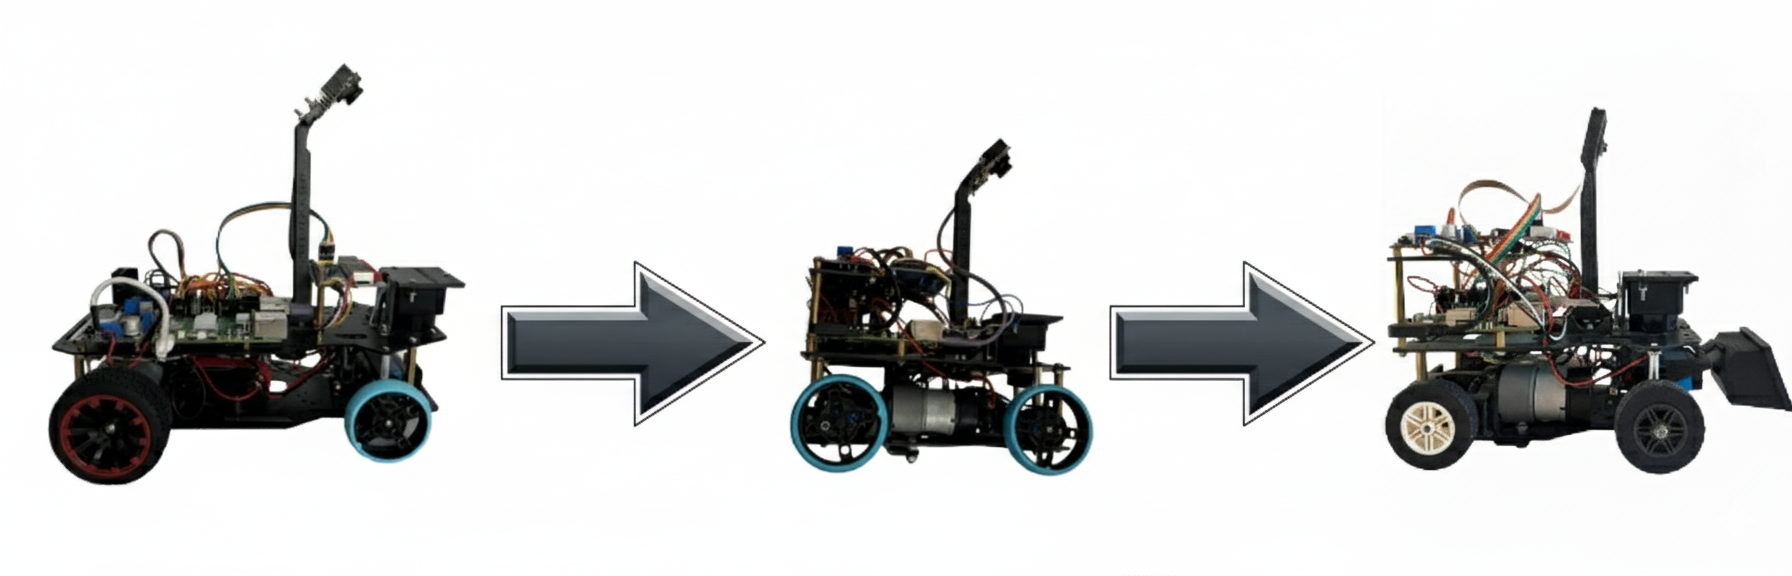
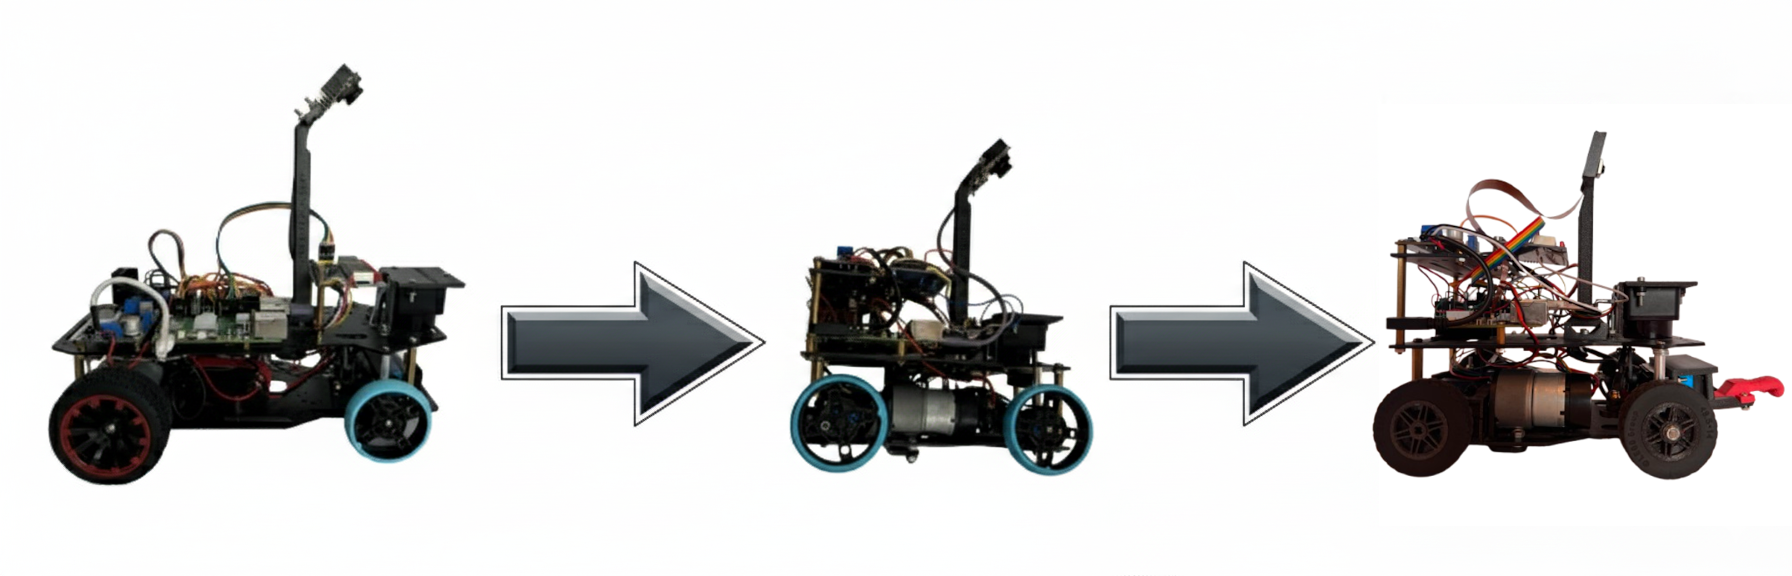
Updating our journey

Changed region(s): [[0.75, 0.1875, 1.0, 0.8438]]

diff --git a/Our Journey.md b/Our Journey.md
@@ -1,73 +1,120 @@
-# Our Journey
+# Our journey
 
-The documentation will begin with the journey we went on this year, our struggles, our biggest achievements and even some funny things we had encountered.
+In this segment, we'll focus on our development process throughout the years. The challenges we faced, the engineering decisions we made, and how the final design of our robot came to be.
 
-## Our past
+## Our history in WRO
 
-WRO has been quite a significant part of our lives for a few years now. While the competition had come with its fair share of hardships it also gave us some of the most important opportunities in our lives. Last year was our first time experiencing tppppphe Future Engineers category and it was a great challenge. We learned a lot and even **managed to secure the title of World Champions,** something we couldn't even dream of achieving before. After such an incredible first experience, we already realized how important this project was for us and eagerly started preparing for this season of WRO.
+Before we begin talking about anything technical we think it is important to mention the past, because it might make it more clear why we made some decisions previously, and where our engineering experience stems from. It might be a bit long, but its hard to summarize so many years in just a few sentences. 
 
-![1st place](1st.png)
+### Before FE
+ 
+Before Future Engineers, all our team members were competing in the Robomission category, although not necessarily in the same team nor age group. There, we picked up a lot of useful skills and knowledge, like the **basics of motor and gyro usage, the idea behind the PID** controller. We learned as much as we could within the category, but after a few years we wanted to take on a mature challenge, so we decided to give Future Engineers a try in 2024.  
+
+### FE 2024
+It was our first time doing anything this advanced so we decided to take a slow and steady approach. We did not really care about speed at all, we just wanted to make something that worked and was reliable. Our experience was mostly with software, **so we were hesitant to when it came to mechanical solutions** (like making a differential gear), and we also took an approach that was more similar to a Robomission robot (building our run from highly modular, but slower parts, rather than a fully dynamic solution). **We were new and inexperienced** both in mechanics and electronics, but somehow everything went amazingly and we ended up winning the International Final.  
+
+### FE 2025
+The next we changed our philosophy and decided to focus on speed instead. There were minimal changes to the rules, so we predicted that time would play a more important role in the top positions that year. We already had a perfectly working robot, and while there would have been advantages in starting over, **we decided to rather just improve upon the design we already had.** We made upgrades in all areas, software, mechanics and electronics. We got a new camera, differential, we improved our strategy. With everything, **we managed to cut our runtime in half,** make everything smoother and more reliable. All in all 2025 was a lot more intense, with a lot more teams earning the maximum points on the challenge runs, but somehow we still managed to take third place, proving that the year before wasn't just a fluke.  
+  
+In short, the last few years gave us all kinds of skills and knowledge and wonderful foundation for our future. Some of us were just starting high school when we first attended the competition, and now in university we are still eager to compete.
 
 ---
 
-## The planning phase
+## Our design process throughout the years
 
-In the first phase of development, we mostly did **planning and information gathering.** We already learned last year just how important it is to collect information and have concrete plan. At our first meeting we wrote down what we needed to improve over last year, which areas of our robot required more work.
+### The first design
 
-This was what we came up with:
+Back in 2024, we first wanted to use a [3d printable car](https://www.instructables.com/3D-Printed-RC-Car/) we found online as a base. We didn't know where to start of from, and this would have provided us a decent foundation, but in the end we could not use it. As we progressed at assembling the car, **more and more things started going off the rails.** The build manual had a lot of steps and stl files left out, so even the build process was unreasonably difficult. **But biggest problem was that this car was meant to be a fast RC car for outside usage,** rather than something more precise.
 
-* Getting new camera with manual image processing
-* Making custom made differential gear with higher efficiency, speed and less play in the wheels
-* Speeding up our Lidar sensor for a higher refresh rate
-* Some kind of alignment protocol to correct any deviation, probably with wall alignment
-* Maximize the documentation
-* Fix any lingering problems from last years and make the robot overall more reliable
+---
+
+### The 2024 design
+
+  In order to get a working prototype as fast as possible we got a Hiwonder Ackerman Intelligent Car. This enabled the car to be more stable and fast, but we still ran into quite a few problems. The car was *exactly* the maximum size allowed, which made parking near-impossible at that time. For the national finals this was not a problem, but later on, we had to make a lot of improvements, such as changing the tires to Lego Spike tires, (because was the original ones were so wide that by turning the robot would exceed the size limit), or cutting the chassis into multiple pieces and making the the robot shorter and more agile, but taller.
+
+  The most prominent issue we had to solve was the **differential gear.** The car came with two motors in the kit arranged for and electric differential drive. This was decided against by the head judges so we had to think of a solution as fast as possible. For the national finals we fixed the issue with wiring. **We wired it so that both motors would get the same input, but in reverse, causing them to always output the same rotational force.** This way we kept both the **power** and **speed** of both motors. However for the international championship we had to implement a differential gear solution. 
+  After multiple iterations we ended up using a design which **mixes official lego elements, metal technic parts and custom 3d printed parts.**
+
+  After our hardware issues were solved it was finally time to face the software ones. For the brains of the robot we ended up using both a Raspberry Pi 5 and an ESP 32. This was so that we could write really fast C code for our sensors, but still be able to write much easier Python code for the run logic. For general navigation we choose Lidar sensor, and and a Pixy Ai camera for color detection. **The latter needed a lot of work.** We used a Pixy Ai, so we could skip most of the heavy lifting, but were frustrated at the camera's surprisingly high inaccuracy. However, looking back, the solution was kind of obvious. If we can't see something clear enough, just go closer. We actually realized this **during** the national competition, where the lighting was very different from the one at home, and managed to implement a makeshift solution to increase detection accuracy above what we measured at home. Later, we perfected this approach and it proved to be quite effective at the time. The final thing we added was the parking logic, which added a lot of complexity to the already complex run, but after that, polishing and fine-tuning was all there left to do.
+
+![end of 2024](old_vs_new.png)
+
+---
+
+### The 2025 design
+
+#### The planning phase
+
+In 2025, after taking a break between seasons, we started working on the robot once again, but now with a lot more organized workflow.
+In the first phase of development, we mostly did **planning and information gathering.** We already learned the year before just how important information was. At our first meeting we started by writing down the tasks for that year.
+
+This was what we came up with:  
+
+  >⬜ Getting new camera with manual image processing  
+  >⬜ Making custom made differential gear with higher efficiency, speed and less play in the wheels  
+  >⬜ Speeding up our Lidar sensor for a higher refresh rate  
+  >⬜ Some kind of alignment protocol to correct any deviation, probably with wall alignment  
+  >⬜ Maximize the documentation  
+  >⬜ Fix any lingering problems from last years and make the robot overall more reliable
 
 After this we searched up the most successful teams from last years and assigned everyone one or two documentations from those teams to review. This was really useful for us, since a lot of teams had great and interesting ways to solve this challenge, while also **learning what was required in the documentation** from analyzing the points they had gotten.
 
-## The development phase
+#### The development phase
 
 The most important tasks we wanted to tackle first were the camera and the differential, since without these parts the robot couldn't even start moving.
 
-### The camera
+##### The camera
 
-In the last year's design we used a Pixy Ai camera to do the color detection for us. After a lot of tinkering it worked well enough for that season, but we found the camera to be a bit colorblind, so this year **we decided to take matters into our hands.**
-Finding the right camera was the easiest part. We only had a few things we required. A large enough FOV, flat/non fisheye lenses and relatively easy integration. After just a bit of searching we landed on the **Raspberry Pi Camera Module 3.**
-This camera had everything we needed. A FOV of 66° horizontal and 41° vertical. Since we use a Raspberry Pi 5 as the brain of our robot and this is the official camera made for the Raspberry Pi, integration was easy as Pi(e). There was already a fully feature complete Python library made for it and the Raspberry even has a dedicated camera port.
-After this, we moved on to making the camera actually work. Making simple pictures was quite an easy task, but then it got a lot harder. First we had to test out the perfect height and angle the camera would need to be in order to get the right image.
+In the year before, we used a Pixy Ai camera to do the color detection for us. It worked well enough for that season, but we found the camera to be a bit colorblind, so we decided to move onto a more manual approach.
+Finding the right camera was the easiest part. We only had a few things we required:
+- A large enough FOV
+- Flat/non fisheye lenses
+- Relatively easy integration.
+
+After just a bit of searching we landed on the **Raspberry Pi Camera Module 3.**
+This camera had everything we needed. A FOV of 66° horizontal and 41° vertical. Since we use a Raspberry Pi 5 as the brain of our robot and this is the official camera made for the Raspberry Pi, integration was easy as Pi(e). There was already a fully feature complete Python library made for it and the Raspberry even had a dedicated camera port.
+The next part was getting the camera actually work. Making simple pictures was quite an easy task, but then it got a lot harder. First we had to test out the perfect height and angle the camera would need to be in order to get the right image.
 ![angle and height tests](test.jpg)
 This took quite a few tries but we found a 15° depression angle at a height of around 20 cm to be sufficient for our needs. These measurements allowed us to make a 3D printed camera stand that would hold the camera in the right place. Then came the logic of the camera.
-Our idea was to use the measurements from our **Lidar sensor to pinpoint the location of the obstacle** on the camera and then take the average of all the pixels inside that area thus getting a value of how green and how red it is. This is why it was important that we used a flat lense, since this way we didn't have to account for camera distortion and could avoid using matrix equations, allowing us to use simple geometry for our solution. But even with this, there were problems we had to solve. For example only after a few weeks did we realize that the camera **wasn't using its maximum FOV,** which was crucial for our calculations. Other than this we also had to be mindful about any modifications we made since then we had to update the camera's height and angle in the code. After a lot of fiddling and optimizing, **it worked beautifully.** While still not perfect it was already miles ahead in reliability compared to the Pixy cam.
+Our idea was to use the measurements from our **Lidar sensor to pinpoint the location of the obstacle** on a and then take the average of all the pixels inside that area thus getting a value of how green and how red it is. This is why it was important that we used a flat lense, since this way we didn't have to account for camera distortion and could avoid using matrix equations, allowing us to use simple geometry for our solution. But even with this, there were problems we had to solve. For example only after a few weeks did we realize that the camera **wasn't using its maximum FOV,** which was crucial for our calculations. Other than this we also had to be mindful about any modifications we made since then we had to update the camera's height and angle in the code. After a lot of fiddling and optimizing, **it worked beautifully.** While still not perfect it was already miles ahead in reliability compared to the Pixy cam.  
+  
+>✅ Getting new camera with manual image processing  
 
-### The differential
+##### The differential
 
-The differential was also a big part of last year's project and it managed to sneak its way into this year's as well. While the Lego differential we used before worked fine, it wasn't the most secure thing in the world. The wheels had a lot of play and the transmission was far from ideal. The motor we used was quite powerful with more than enough torque than we would ever need so we could afford to lose some. Thus **we decided on making a custom differential** with a 1:1 transmission rate, a lot tighter tolerances and imbedded bearings to decrease friction and make things more secure.
-Making a differential is a lot harder than just slapping some cogs together, It requires a lot of data and calculations. So first we needed to make an accurate mechatronic model of our system and use it to design the 3D models. The modelling wasn't an easy task either, since **all the components had to fit together perfectly** and we wanted to use the fiberglass lego axles from last year requiring it to be compatible with Lego, while also having a D shaft as an input. 
-After printing out the models we made, sanding out things where needed and doing some assembly everything seemed to work great. This was a great addition to our robot, since it made everything more precise and allowed us to reach even faster speeds, providing an increase of about 1.4 times and the asymmetric design of the gears made it a lot more efficient.
+The differential was one of the most important challenges we had to face mechanically. While the Lego differential we used originally worked fine, it wasn't the ideal. The wheels had a lot of play and the transmission was far from ideal. The motor we used was quite powerful with more than enough torque than we would ever need so we could afford to lose some. Thus **we decided on making a custom differential** with a 1:1 gear ratio, a lot tighter fittings and imbedded bearings to decrease friction and make things more secure.
+Making a differential is a lot harder than just slapping some cogs together, It requires data and calculations. The modelling wasn't an easy task either, since **all the components had to fit together perfectly** and we wanted to use the axles from last year requiring it to be compatible with Lego, while also having a D shaft as an input. 
+After printing out the models we made, sanding out things where needed and doing some assembly everything seemed to work great. This addition made everything more precise and allowed us to reach even faster speeds, providing an increase of about 1.4 times and the asymmetric design of the gears made it a lot more efficient.
 
-### The new motor
+>✅ Making custom made differential gear with higher efficiency, speed and less play in the wheels  
 
-While the new differential already provided us with a decent speed bump, **we wanted more.** We managed to get maximum points last year but our time was rather lacking compared to the other teams earning maximum points, so we knew we had to improve more. To further increase the speed of our robot we decided to get a new motor of the same kind we used before but with a better built in transmission. This change lowered our torque even further, but with the staggering 3 times speed boost it provided, we decided to take the trade. With change our maximum speed had reached **over 4.5 times what we had the previous year.**
+##### The new motor
 
-### Parking
+While the new differential already provided us with a decent speed bump, **we wanted more.** We managed to get maximum points the first year but our time was rather lacking compared to the other teams with similar results, so we knew we had to improve more. To further increase the speed of our robot we decided to get a new motor of the same kind we used before but with a better built in gear ratio. This change lowered our torque even further, but with the staggering 3 times speed boost it provided, we decided to take the trade. With change our maximum speed had reached **over 4.5 times what we had the previous year.**
 
-The parking was one of the main rule changes compared to last year. While the increased parking space was really useful, parallel parking still proved to be a lot more difficult than perpendicular parking. We first tried a method of basically wiggling our way out of the parking space, but that added a lot more complexity and was influenced too much by the play in the motor and wheels. To fix this we had to **heavily modify our steering gear,** by moving up the servo and extending its range to the absolute limit. These changes allowed the robot to simple drive out of the parking space with one turn.
+##### Parking
+
+The parking was one of the main rule changes that year. While the increased parking space was really useful, parallel parking still proved to be a lot more difficult than perpendicular parking. We first tried a method of basically wiggling our way out of the parking space, but that added a lot more complexity and was influenced too much by the play in the system. To fix this we had to **heavily modify our steering gear,** by moving up the servo and extending its range to the absolute limit. These changes allowed the robot to simple drive out of the parking space with one turn.
 
 ![driving mechanism changes](new_diff2.png)
 
-### Speeding up the Lidar
+##### Speeding up the Lidar
 
 The refresh rate of our Lidar was already a problem last year and since the speed of our robot has increased even further this problem did as well. The problem stems from the fact that the Lidar only spins 10 times a second, meaning that a given degree only refreshes every 0.1 seconds, so if the robot were to move at a speed of 1.5 m/s then **the robot could move 15 cm between two measurements,** making the run a lot more instable. With some trial and error we managed to get it up **from 10 to 15 Hz** which is still quite slow, but a decent enough improvement.
 
-### Wall alignment
+>✅ Speeding up our Lidar sensor for a higher refresh rate  
 
-We also needed some way to further stabilize the run. An issue that came up sometimes was that the gyro could slowly shift causing the robot deviate from how far we wanted it to be from the wall. We fixed it by adding a little correction arcing each time we went in a straight line. The arc was just small enough that it **could do it without moving the Lidar.** This change made the robot a lot more predictable and reliable.
+##### Wall alignment
 
-### Predictive gyro
+We also needed some way to further stabilize the run. An issue that came up sometimes was that the gyro could slowly shift causing the robot to deviate from how far we wanted it to be from the wall. We fixed it by adding a little correction arcing each time we went in a straight line. The arc was just small enough that it **could do it without moving the Lidar.** This change made the robot a lot more predictable and reliable.
+
+>✅ Some kind of alignment protocol to correct any deviation, probably with wall alignment
+
+##### Predictive gyro
 
 Just like Lidar, we had issues with the refresh rate of the gyro as well, but with turning. However we could use a more robust solution this time, since the gyro on outputs one value and that value cannot have big jumps in it. We decided on using an interpolation method, basically **predicting the gyro values based on previous data,** allowing us to end turns at just the right time.
 
-### Troubleshooting
+##### Troubleshooting
 
 In the development process we also encountered some rather peculiar and informative issues. Those are listed below:
 
@@ -79,21 +126,19 @@ In the development process we also encountered some rather peculiar and informat
 
 * When replacing the motor, we didn't account for the fact that it had a slightly shorter shaft, which later caused the cog to slip off from it. Fortunately the fix was just making the back of the cog a bit longer. 
 
-### Aesthetic changes
-
-When working on the robot we realized a grave mistake we had made last year. **We did not give a name to our robot,** so we needed to change that as soon as possible. Since during testing our robot had a tendency tu bulldoze over things, we decided on naming it Dózer, from the word bulldózer, which just means bulldozer. After coming up with the name we also wanted it to look the part, so we gave it a little shovel upfront and a license plate on the back.
+>✅Fix any lingering problems from last years and make the robot overall more reliable
 
 ---
 
-## Optimizing and the finishing touches
+#### Optimizing and the finishing touches
 
-The changes we made up till this point were made before the national competition as these were the bulk of what we had planned. While not changing the look of the robot that much, these changes were still astronomical when it came to how the robot functions. These changes turned out great, however things like these **still needed a lot of polishing.** So once the national final has ended and we finally got some rest, we sat out once again to finally complete the robot. While there were no more huge changes that needed to be made, there were still things that required small improvements to be perfect. Just like before, we made a list of the things that we had to work on:
+The changes we made up till this point were made before the national competition as these were the bulk of what we had planned. These changes turned out great, however things like these **still needed a lot of polishing.** While there were no more huge changes that needed to be made, there were still things that required small improvements to be perfect. Just like before, we made a list of the things that we had to work on:
 
-### New motor controller
+##### New motor controller
 
-The first change we made was getting a new motor controller. While the previous one worked fine, it was quite big and inefficient, so we decided to get a new one. **The new one solved those issues and even made our robot go a lot quiter.**
+The first change we made was getting a new motor controller. While the previous one worked fine, it was quite big and inefficient, so we decided to get a new one. **The new one solved those issues and even made our robot go a lot quieter.**
 
-### Custom interconnect PCB
+##### Custom interconnect PCB
 
 In order to save some space and ensure proper
 wiring, we designed a custom PCB in [KiCad](https://www.kicad.org/). We had already made something similar before, but we decided to make a more sophisticated one this time around.
@@ -109,15 +154,15 @@ As a safety precaution and to ensure extensibility, all ESP pins were mirrored t
 After every factor mentioned above has been dealt with, a BOM assembled, and the PCB ordered, the PCB was successfully integrated into the car (besides the EN miswiring mentioned above).
 
 
-### Filtering out errors in the raspberry - esp communication system
+##### Filtering out errors in the raspberry - esp communication system
 
-Communication between the computing units was always a tricky part. There were always a lot of things that could go wrong. While most of the problems we encountered were fixed by this point, there was always a chance that any data we sent could get corrupted by the time it has reached its goal. We eased this problem by **integrating a checksum into our communication system,** which in short checks the sum of the message on both sides and compares them, thus being able to tell if the message was corrupted in any way.
+Communication between the computing units was always a tricky part. While most of the problems we encountered were fixed by this point, there was always a chance that any data we sent could get corrupted by the time it has reached its goal. We eased this problem by **integrating a checksum into our communication system,** which in short checks the sum of the message on both sides and compares them, thus being able to tell if the message was corrupted in any way.
 
-### Optimizing robot path to improve speed
+##### Optimizing robot path to improve speed
 
-Last year, our main focus was stability, while this year we also decided to focus on speed. While stability is still the most important aspect of the robot, we realized that also needed to shave off from the runtime as much as we could in order to not fall behind in the competition. We already massively improved the speed of the robot, but we knew that we could also gain time by just making it go a shorter distance. Previously this seemed impossible as there were problems with our turning angle, but we managed to **tweak some things in our turning gear, finally making this possible.** Now the robot can optimize its path even more making it that sometimes even one short turn is enough for entire sections of the map.
+Last year, our main focus was stability, while this year we also decided to focus on speed. While stability is still the most important aspect of the robot, we realized that also needed to shave off from the runtime as much as we could. We already massively improved the speed of the robot, but we knew that we could also gain time by just making it go a shorter distance. Previously this seemed impossible as there were problems with our turning angle, but we managed to **tweak some things in our turning gear, finally making this possible.**
 
-### Fine-tuning the sensors
+##### Fine-tuning the sensors
 
 The sensors are the eyes of the vehicle, so it was always very important that they worked "well", but that "well" part **could only be called "well enough" up to this point.** To change this we had to implement a few things.
 
@@ -127,12 +172,49 @@ Then we also fixed the problem caused by the misalignment of the lidar and the c
 
 Finally, to make finding problems easier in the future, we also added a few features to our debbuging program, like also implementing the camera images into the playback feature, and adding a menu to create different run presets to streamiline the testing process.
 
-### Improving the wheels
+##### Improving the wheels
 
-The final thing we did was to change out the wheels. The wheels we were using at that time worked flawlessly, however with the robot being able to go much faster, they had started to slip. We could have just changed them to a bigger wheels with more grip, but that could have posed a problem when parking. Luckily we managed to find a pair of wheels **that fit both criteria of being thin and grippy,** so we started using those instead. After this the only thing left to fix was making them mount better on the front, since there we used screws for mounting, instead of an axle. For this we edited the 3d model of the rim, so that it could have **a nut inserted inside of it.** We did have to make a few versions of this design, since the first one did not turn out so well, but we did end up making a good one. These fixes were the last things we needed to do to complete the robot, and after doing so, the robot ended up working beautifully.
+The final thing we did was to change out the wheels. With the robot being able to go much faster, the wheels we used before had started to slip. We could have just changed them to a bigger wheels with more grip, but that could have posed a problem when parking. Luckily we managed to find a pair of wheels **that fit both criteria of being thin and grippy,** so we started using those instead. After this the only thing left to fix was making them mount better on the front, since there we used screws for mounting, instead of an axle. For this we edited the 3d model of the rim, so that it could have **a nut inserted inside of it.** We did have to make a few versions of this design, since the first one did not turn out so well, but we did end up making a good one. These fixes were the last things we needed to do to complete the robot, and after doing so, the robot ended up working beautifully.
 
 
 ![evolution of our robot](evolution2.png)
+
+---
+
+### The 2026 design
+
+
+At the start of the year, we were quite sad to see that, like last year, the changes to the rules were minimal. While we obviously still had a lot of ideas in mind, we were already quite happy with our design, so we were hesitant to make big changes. But this does not mean that were sitting around doing nothing.
+
+#### The planning phase
+
+Once again, we started off by checking out the documentations of the best performing teams and **making a TODO list.**  
+
+What we came up with this time:
+
+  >⬜ Optimizing our strategy even further and increasing modularity.  
+  >⬜ Making the robot more collision resistant.  
+  >⬜ Improving our development process.    
+  >⬜ Designing a new PCB.  
+  >⬜ Improving our turning system.
+
+##### The new strategy
+
+Our main focus this year was on the new strategy. Last year, we discovered, that the deciding factor between teams with the same amount of points was the** time of only the obstacle challenge, not the sum of both of them.** This made our main concern speeding the obstacle challenge strategy.  
+![strategy](strategy_WIP.png)  
+We started working on a new and improved, but much more complex strategy, as can be seen on the (WIP) flowchart above. This would have greatly increased our efficiency, but implementing it **would have taken a lot of time and testing.** Time, that sadly we did not have, due to university and school eating up most of it.  
+Reluctantly, we reversed the changes we made and decided on a simpler, intermediate approach. The new strategy required less reversing, and made our robot slip less, in turn making it go into reverse even less. This approach, while still more complex, than the one before, required a lot less testing, thus **implementing it became actually feasible.** So we did. And thankfully, it worked really well.
+
+>✅ Optimizing our strategy even further and increasing modularity.  
+
+##### Collision resistance.
+The shovel we used the year before for aesthetics, while looking great, was also quite fragile, breaking more than once. Due to this, we sadly had to part ways with it and instead printed a bumper, now using **soft TPU** in the shape a boxing glove hopefully dampening any frontal collisions in the future.
+
+  >✅ Making the robot more collision resistant. 
+
+##### The surprise rule
+
+This year, finally a long awaited surprise rule was announced, giving us a new challenge to work on. When we were making our new strategy, one of our main concerns was modularity. This time, we knew that a surprise rule would be announced, so we made our code as **modular and extensible as possible.** This decision later came really handy, since it made solving the surprise challenge quite easy.
 
 ---
 
@@ -142,8 +224,11 @@ We usually **met up once a week to work on this project,** but even when we were
 
 ## The future
 
-We made huge improvements over last year, making the robot a lot faster and more reliable, making us very hopeful for this year's competition. While this is as good as the robot has ever been, we will always find new things to improve on. But for us to know what we truly need to change, **we first need to wait until we can learn about the next year's challenge,** until then, we can only keep planning.
+We made huge improvements over last few years, making the robot a lot faster and more reliable, making us very hopeful for this year's competition. While this is as good as the robot has ever been, we will always find new things to improve on.  
+We already started designing an even newer version of our custom pcb, and were experimenting with a way to wirelessly update the ESP code at home (It is important to note that this feature will have a visual hardware toggle in order to comply with the rules of the competition). We also started discussing how we could make a custom chassis and steering system to improve agility and make our turns even tighter. Finally, we will try to implement that dreaded strategy one more time.
 
 ## Conclusion
 
 Overall we are **incredibly happy with how our robot turned out** and glad we took upon this challenge and went on this journey together. We could successfully do all the things we had planned and even made some funny memories in the process. The process was hard, but worth it in the end and we hope to continue working on it in the future.
+
+>✅ Maximize the documentation